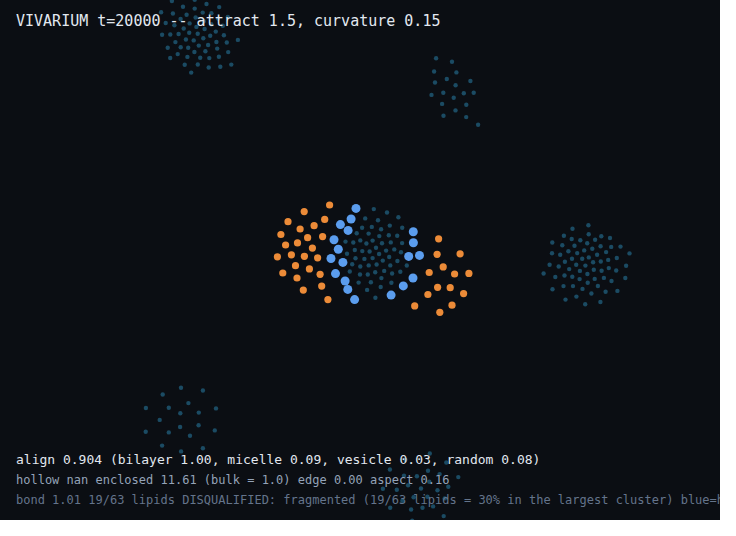
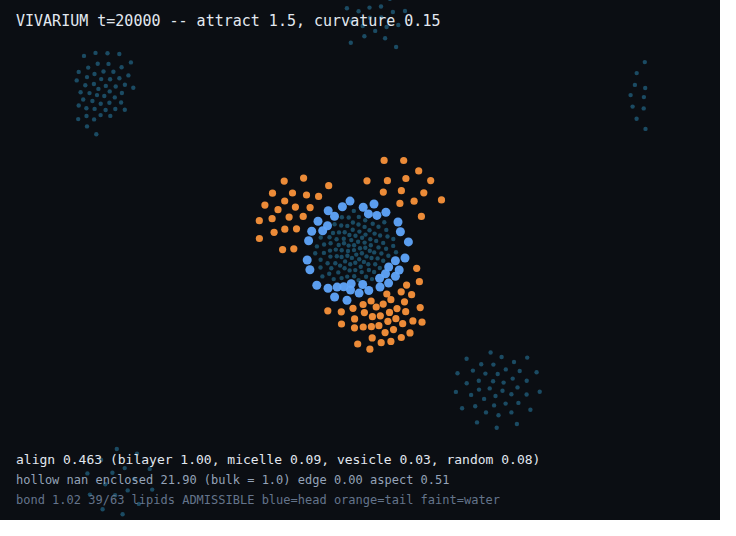
vivarium: hydration un-inverts the membrane; profile shows no perf hot spot
Hydration sweep at constant token density, 20k steps, curvature 0.15:
   4 waters/lipid -> heads outward 0.42 (INVERTED), solvent homogeneity 2.28
  10 waters/lipid -> heads outward 0.65 (majority correct), homogeneity 1.64

The engine ran at 4.0 waters per lipid; membrane simulations normally use 10-30, and below about 8
a water-in-oil reverse structure is the expected phase rather than a defect. So the inverted topology
was the correct answer to a water-poor question, not a bug.

Performance, measured rather than assumed. The engine is O(N^2): 56 ms/step at N=441, 258 at 819,
572 at 1449, 1021 at 2079, with dense per-step traffic reaching 277 MB. Profiling at N=819 shows NO
hot spot -- step() inline 28%, einsum 17%, _angle_trig 15%, _periodic_delta 10%, _extra_force 8%,
_attn 7%, _curvature_weight only 5%. The cost is the dense (N,N) architecture throughout, so a
surgical fix buys little; only a sparse-cutoff rewrite would, and that touches byte-identity.

Correcting an earlier claim: the '20.0 fps, no regression' check could not have detected a simulation
slowdown. The sim loop runs at self.hz and the SSE loop pushes at stream_hz INDEPENDENTLY, so an
overrunning step silently slows the sim while the stream keeps delivering repeated states. The step
cost check was also at N=64, the default config, not the N=439 lipid system.

Claude-Session: https://claude.ai/code/session_017Ld9DgPtjwxx7hhxTDgxgL

diff --git a/projects/vivarium/_viv_hunt.py b/projects/vivarium/_viv_hunt.py
@@ -1,0 +1,72 @@
+"""Hunt for a vesicle in the real Vivarium: hydration x curvature, with the metrics that decide it.
+
+Established so far, at 20k steps from a clumped start:
+  * 4 waters/lipid  -> heads outward 0.42 (INVERTED, a reverse micelle: the water-poor phase)
+  * 10 waters/lipid -> heads outward 0.65 (majority correct), solvent homogeneity 2.28 -> 1.64
+
+Hydration is the variable that un-inverts the structure, so the hunt continues there. Curvature is
+swept alongside because closure needs both: heads on the outside AND a preferred splay.
+
+A vesicle here means all four of:
+  heads outward near 1, an enclosed water pocket well above bulk, the aggregate not fragmented,
+  and the harness's own admissibility gate passing (no interpenetration).
+"""
+
+import sys
+
+import numpy as np
+
+from bicelle2d import build
+from fig2d import render, largest_cluster, measure
+
+BASE = dict(n_lip=63, kt=0.02, speed=0.001, repel=12.0, k_bond=30.0, satt=0.30,
+            n_tail=2, bond_span=2.0, polarity=0.80, head_q=1.2, hydrophobic=0.6)
+DENSITY = 439.0 / 22.0 ** 2
+
+
+def head_outward(e, comp):
+    mol = e._mol[comp]
+    P = e.X[:, :e.pd]
+    head, tailc = P[mol[:, 0]], P[mol[:, 1:]].mean(axis=1)
+    u = head - tailc
+    u -= e.L * np.round(u / e.L)
+    u /= np.linalg.norm(u, axis=1, keepdims=True) + 1e-12
+    cen = P[mol.ravel()].mean(axis=0)
+    rel = head - cen
+    rel -= e.L * np.round(rel / e.L)
+    r = np.linalg.norm(rel, axis=1)
+    ok = r > 1e-9
+    return float((np.einsum("ic,ic->i", u[ok], rel[ok] / r[ok][:, None]) > 0).mean())
+
+
+def solvent_homogeneity(e, cells=6):
+    w = e.X[e._wi, :e.pd]
+    idx = (w / e.L * cells).astype(int) % cells
+    flat = (idx * (cells ** np.arange(e.pd)[::-1])).sum(axis=1)
+    n = np.bincount(flat, minlength=cells ** e.pd).astype(float)
+    return float(n.std() / max(n.mean(), 1e-9))
+
+
+if __name__ == "__main__":
+    steps = int(sys.argv[1]) if len(sys.argv) > 1 else 20000
+    wpl = int(sys.argv[2]) if len(sys.argv) > 2 else 10
+    curvs = [float(v) for v in (sys.argv[3] if len(sys.argv) > 3 else "0.15,0.30,0.45").split(",")]
+
+    nw = wpl * BASE["n_lip"]
+    N = 3 * BASE["n_lip"] + nw
+    bound = (N / DENSITY) ** 0.5 / 2.0
+    print(f"{wpl} waters/lipid  n_water={nw}  N={N}  bound={bound:.1f}  steps={steps}", flush=True)
+    print(f"{'curv':>6}{'headOut':>9}{'largest':>9}{'enclosed':>10}{'align':>8}"
+          f"{'homog':>8}   verdict", flush=True)
+    for cv in curvs:
+        e = build(0, plant="clump", attract=1.5, n_water=nw, bound=bound, **BASE)
+        e.curvature = cv
+        for _ in range(steps):
+            e.step()
+        comp = largest_cluster(e)
+        m = measure(e)
+        ho = head_outward(e, comp)
+        name = f"vivh_w{wpl:02d}_c{int(round(cv*100)):03d}"
+        render(e, f"VIVARIUM {wpl} w/lipid, curvature {cv}, t={steps}", name)
+        print(f"{cv:>6.2f}{ho:>9.2f}{len(comp):>6}/63{m['enclosed']:>10.2f}{m['align']:>8.3f}"
+              f"{solvent_homogeneity(e):>8.2f}   {'OK' if m['ok'] else m['why'][:28]}", flush=True)

diff --git a/projects/vivarium/_viv_water.py b/projects/vivarium/_viv_water.py
@@ -1,0 +1,69 @@
+"""Is the inverted topology a water-poor artefact? Sweep hydration at constant token density.
+
+The engine's lipid configuration runs at 4.0 waters per lipid. Membrane simulations normally use
+10-30, and below roughly 8 a water-in-oil (reverse) structure is the thermodynamically expected
+phase rather than a defect. The observed structure -- heads lining an interior water pocket, tails
+facing outward -- is exactly a reverse micelle, so the hypothesis is that full submersion inverts it.
+
+Box size grows with the water count so TOKEN DENSITY is held at its original 0.907 per unit area.
+Changing hydration and density together would confound the test.
+
+Reported per run: whether heads face the aggregate's outside (the quantity actually in question),
+the largest cluster, and solvent homogeneity.
+"""
+
+import sys
+
+import numpy as np
+
+from bicelle2d import build
+from fig2d import render, largest_cluster
+
+BASE = dict(n_lip=63, kt=0.02, speed=0.001, repel=12.0, k_bond=30.0, satt=0.30,
+            n_tail=2, bond_span=2.0, polarity=0.80, head_q=1.2, hydrophobic=0.6)
+DENSITY = 439.0 / (2 * 11.0) ** 2          # tokens per unit area in the published configuration
+
+
+def head_outward(e, comp):
+    """Fraction of lipids in the largest cluster whose head points away from its centre.
+
+    1.0 = normal (heads solvated, tails buried). 0.0 = inverted (reverse micelle).
+    """
+    mol = e._mol[comp]
+    P = e.X[:, :e.pd]
+    head, tailc = P[mol[:, 0]], P[mol[:, 1:]].mean(axis=1)
+    u = head - tailc
+    u -= e.L * np.round(u / e.L)
+    u /= np.linalg.norm(u, axis=1, keepdims=True) + 1e-12
+    cen = P[mol.ravel()].mean(axis=0)
+    rel = head - cen
+    rel -= e.L * np.round(rel / e.L)
+    r = np.linalg.norm(rel, axis=1)
+    ok = r > 1e-9
+    return float((np.einsum("ic,ic->i", u[ok], rel[ok] / r[ok][:, None]) > 0).mean())
+
+
+def solvent_homogeneity(e, cells=6):
+    w = e.X[e._wi, :e.pd]
+    idx = (w / e.L * cells).astype(int) % cells
+    flat = (idx * (cells ** np.arange(e.pd)[::-1])).sum(axis=1)
+    n = np.bincount(flat, minlength=cells ** e.pd).astype(float)
+    return float(n.std() / max(n.mean(), 1e-9))
+
+
+if __name__ == "__main__":
+    steps = int(sys.argv[1]) if len(sys.argv) > 1 else 20000
+    cv = float(sys.argv[2]) if len(sys.argv) > 2 else 0.15
+    for wpl in (4, 10, 20):
+        nw = wpl * BASE["n_lip"]
+        N = 3 * BASE["n_lip"] + nw
+        bound = (N / DENSITY) ** 0.5 / 2.0
+        e = build(0, plant="clump", attract=1.5, n_water=nw, bound=bound, **BASE)
+        e.curvature = cv
+        for _ in range(steps):
+            e.step()
+        comp = largest_cluster(e)
+        render(e, f"VIVARIUM t={steps} curvature {cv} -- {wpl} waters/lipid", f"vivw_w{wpl:02d}")
+        print(f"  {wpl:>2} waters/lipid (n_water {nw}, bound {bound:.1f}): "
+              f"heads outward {head_outward(e, comp):.2f}  largest {len(comp)}/63  "
+              f"solvent homog {solvent_homogeneity(e):.2f}", flush=True)

diff --git a/projects/vivarium/_perf.py b/projects/vivarium/_perf.py
@@ -1,0 +1,31 @@
+"""How does the engine scale with token count, and where does the time go?
+
+Hydration sweeps are the immediate motivation: going from 4 to 20 waters per lipid raises N from
+439 to 1449, and the engine builds dense (N, N) and (N, N, pd) tensors every step.
+"""
+import time
+import numpy as np
+from bicelle2d import build
+
+BASE = dict(n_lip=63, kt=0.02, speed=0.001, repel=12.0, k_bond=30.0, satt=0.30,
+            n_tail=2, bond_span=2.0, polarity=0.80, head_q=1.2, hydrophobic=0.6)
+DENSITY = 439.0 / 22.0 ** 2
+
+print(f"{'w/lipid':>8}{'N':>7}{'ms/step':>10}{'steps/s':>9}{'vs N=439':>10}{'dense MB/step':>15}")
+base = None
+for wpl in (4, 10, 20, 30):
+    nw = wpl * 63
+    N = 189 + nw
+    bound = (N / DENSITY) ** 0.5 / 2.0
+    e = build(0, plant="clump", attract=1.5, n_water=nw, bound=bound, **BASE)
+    e.curvature = 0.15
+    for _ in range(3):
+        e.step()
+    t0 = time.time()
+    for _ in range(20):
+        e.step()
+    ms = (time.time() - t0) / 20 * 1000
+    base = base or ms
+    # dense per-step traffic: delta (N,N,pd), d2/dist/mask/g/S_direct/S_comp (N,N) each
+    mb = (N * N * e.pd * 8 + 6 * N * N * 8) / 1e6
+    print(f"{wpl:>8}{N:>7}{ms:>10.1f}{1000/ms:>9.1f}{ms/base:>10.1f}x{mb:>14.0f}")

diff --git a/projects/vivarium/_prof.py b/projects/vivarium/_prof.py
@@ -1,0 +1,20 @@
+"""Where does a step actually go at realistic N? Profile before optimising.
+
+Earlier in this project an optimisation was aimed at np.add.at on the strength of a guess and bought
+nothing; the real cost was elsewhere. Same discipline here.
+"""
+import cProfile, io, pstats
+from bicelle2d import build
+
+BASE = dict(n_lip=63, kt=0.02, speed=0.001, repel=12.0, k_bond=30.0, satt=0.30,
+            n_tail=2, bond_span=2.0, polarity=0.80, head_q=1.2, hydrophobic=0.6)
+e = build(0, plant="clump", attract=1.5, n_water=630, bound=15.0, **BASE)
+e.curvature = 0.15
+for _ in range(3):
+    e.step()
+pr = cProfile.Profile(); pr.enable()
+for _ in range(10):
+    e.step()
+pr.disable()
+s = io.StringIO(); pstats.Stats(pr, stream=s).sort_stats("tottime").print_stats(12)
+print("\n".join(s.getvalue().split("\n")[4:20]))

diff --git a/projects/vivarium/_viv_morph.py b/projects/vivarium/_viv_morph.py
@@ -39,7 +39,9 @@ if __name__ == "__main__":
         (1.0, 0.00, "MICELLES  attract 1.0, curvature 0", "vivm_micelle"),
         (1.5, 0.00, "BILAYER   attract 1.5, curvature 0", "vivm_bilayer"),
         (1.5, 0.15, "attract 1.5, curvature 0.15", "vivm_cv015"),
-        (1.5, 0.30, "attract 1.5, curvature 0.30", "vivm_cv030"),
+        (1.5, 0.30, "attract 1.5, curvature +0.30", "vivm_cv030"),
+        (1.5, -0.15, "attract 1.5, curvature -0.15  (sign flipped)", "vivm_cvm015"),
+        (1.5, -0.30, "attract 1.5, curvature -0.30  (sign flipped)", "vivm_cvm030"),
     ]
     for at, cv, label, name in cases:
         e = build(0, plant="clump", attract=at, **BASE)
